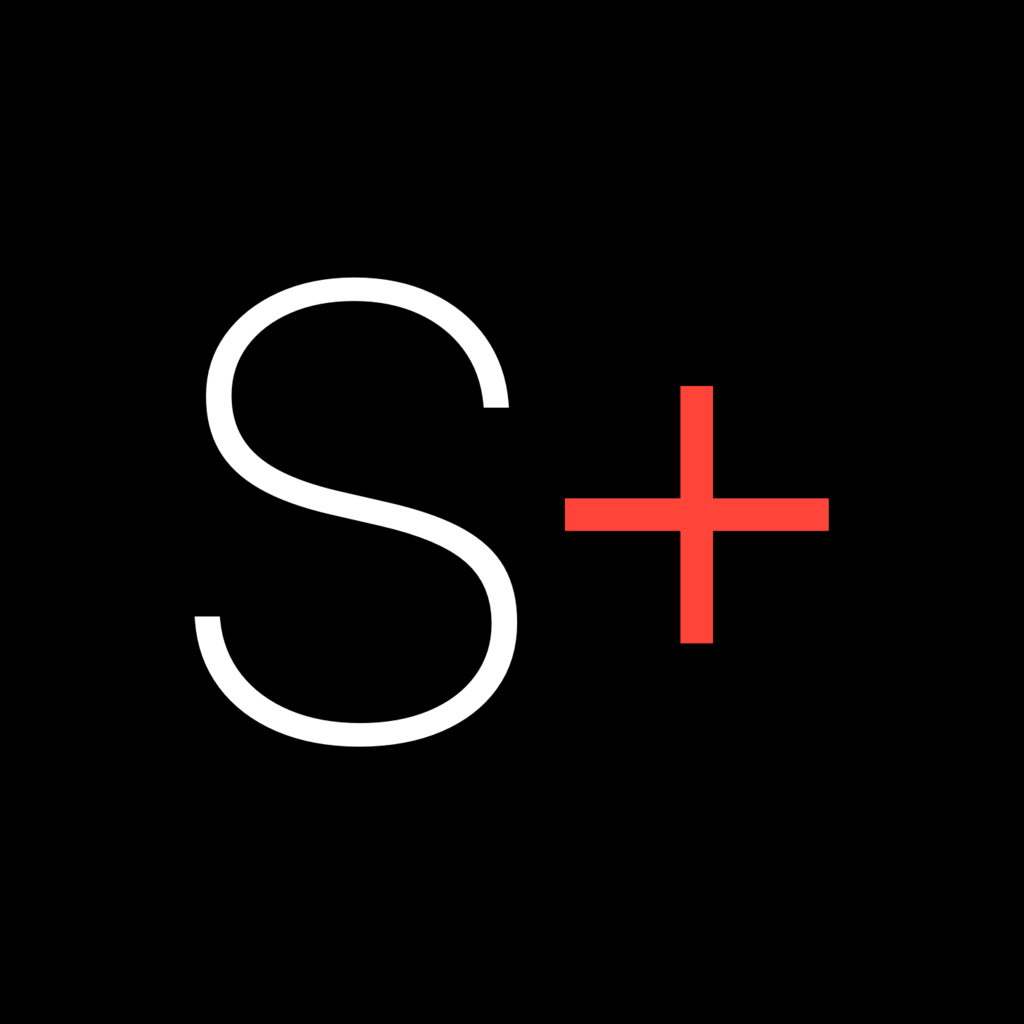
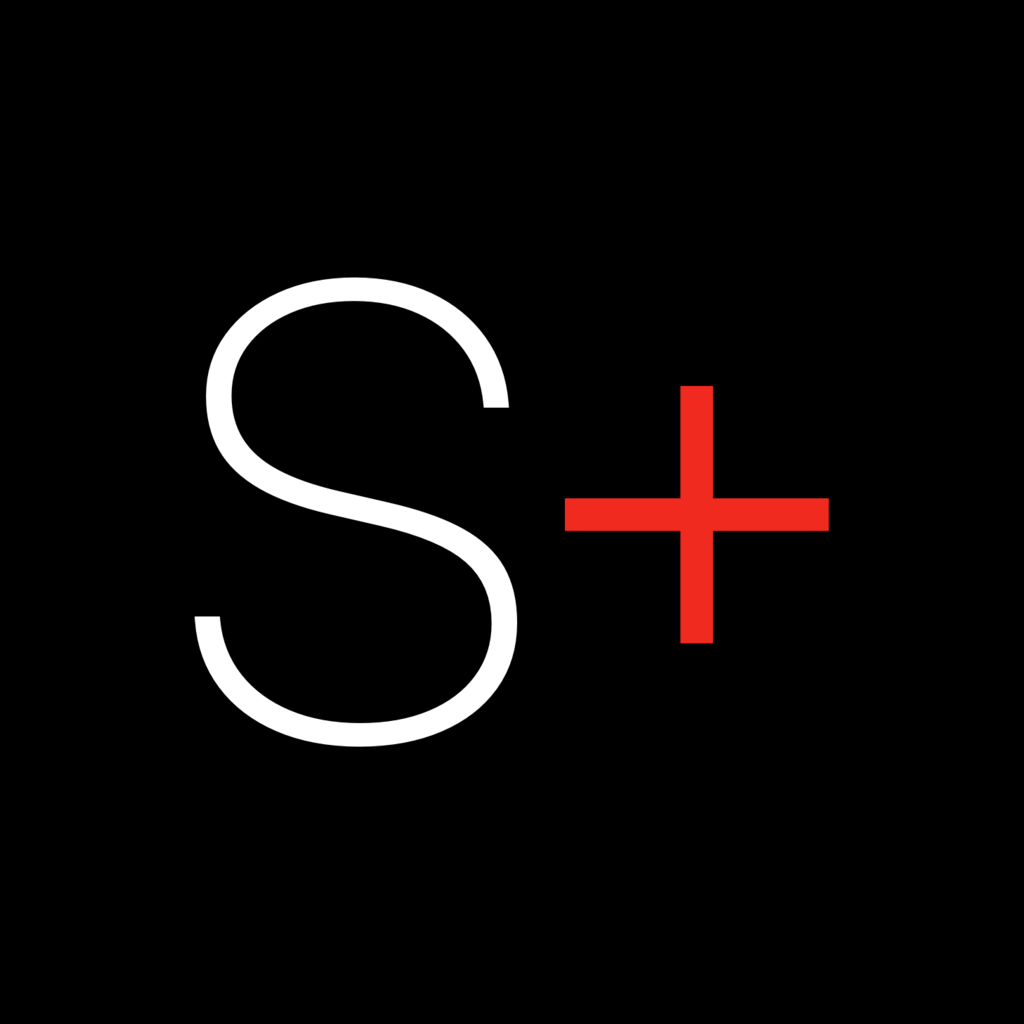
feat: Tune StandBy night red and compact status gauge layout

Changed region(s): [[0.5312, 0.375, 0.8125, 0.625]]

diff --git a/app/ui/ultra/StatusGaugeFace.tsx b/app/ui/ultra/StatusGaugeFace.tsx
@@ -5,7 +5,7 @@ import { ArcGauge, TempComplication, UvComplication } from './ArcGauge';
 import { ActivityRings } from './ActivityRings';
 import { BatteryComplication, NoiseComplication, SunsetComplication } from './Complications';
 import { nightMode } from './nightColors';
-import { panelHeroSize, panelLayout, panelRingSize } from './panelLayout';
+import { panelLayout, panelRingSize, panelStatusHeroSize } from './panelLayout';
 import { dayProgress } from '../../theme/ultra';
 
 type StatusGaugeFaceProps = {
@@ -32,13 +32,17 @@ function MetricRow({ label, value, progress, last = false }: MetricRowProps) {
 
   return (
     <View style={{ marginBottom: last ? 0 : panelLayout.metricGap }}>
-      <View className="mb-1 flex-row items-end justify-between">
+      <View
+        className="flex-row items-end justify-between"
+        style={{ marginBottom: panelLayout.metricHeadGap }}
+      >
         <Text
           style={{
             color: nightMode.secondary,
-            fontSize: 10,
+            fontSize: panelLayout.metricLabelSize,
             fontWeight: '800',
             letterSpacing: 1.2,
+            lineHeight: panelLayout.metricLabelSize + 2,
           }}
         >
           {label}
@@ -46,9 +50,10 @@ function MetricRow({ label, value, progress, last = false }: MetricRowProps) {
         <Text
           style={{
             color: nightMode.primary,
-            fontSize: 13,
+            fontSize: panelLayout.metricValueSize,
             fontWeight: '700',
             fontVariant: ['tabular-nums'],
+            lineHeight: panelLayout.metricValueSize + 1,
           }}
         >
           {value}
@@ -56,7 +61,7 @@ function MetricRow({ label, value, progress, last = false }: MetricRowProps) {
       </View>
       <View
         className="overflow-hidden rounded-full"
-        style={{ height: 8, backgroundColor: nightMode.track }}
+        style={{ height: panelLayout.metricBarHeight, backgroundColor: nightMode.track }}
       >
         <View
           className="h-full rounded-full"
@@ -83,7 +88,7 @@ export const StatusGaugeFace = memo(function StatusGaugeFace({
   const dayPercent = Math.round(progress * 100);
   const focus = focusPercent ?? Math.max(0.2, 1 - progress);
   const ringSize = panelRingSize(size.height);
-  const heroSize = panelHeroSize(size.height);
+  const heroSize = panelStatusHeroSize(size.height);
 
   const onLayout = (event: LayoutChangeEvent) => {
     const { width, height } = event.nativeEvent.layout;

diff --git a/app/design-system.ts b/app/design-system.ts
@@ -1,7 +1,10 @@
 import { standbyConfig } from './config';
+import { buildStandByNightPalette } from './lib/standByNightPalette';
 
 export type PreviewBackShape = 'pill' | 'round';
 export type PreviewBackOutlineShape = 'auto' | 'none' | 'pill' | 'round';
+
+const standByNightPalette = buildStandByNightPalette(standbyConfig.brand.plusColor);
 
 export const standbyDesignSystem = {
   brand: {
@@ -134,16 +137,7 @@ export const standbyDesignSystem = {
     },
   },
   widget: {
-    night: {
-      bg: '#000000',
-      primary: '#FF453A',
-      secondary: '#C23B33',
-      tertiary: '#8A2E28',
-      muted: '#5C221E',
-      track: '#1C0C0A',
-      border: '#2E1210',
-      glow: 'rgba(255, 69, 58, 0.22)',
-    },
+    night: standByNightPalette,
   },
 } as const;
 
@@ -211,21 +205,21 @@ export const ultraColors = {
   secondary: '#8E8E93',
   accent: '#FF9F0A',
   accentGreen: '#30D158',
-  accentRed: '#FF453A',
+  accentRed: standByNightPalette.primary,
   ringTrack: '#2C2C2E',
 } as const;
 
 export const nightColors = {
-  background: '#000000',
-  surface: '#110808',
-  card: '#160A0A',
-  border: '#3A1512',
-  primary: standbyDesignSystem.brand.plusColor,
-  secondary: '#A8423A',
-  muted: '#6B2E28',
-  accent: standbyDesignSystem.brand.plusColor,
+  background: standByNightPalette.bg,
+  surface: standByNightPalette.track,
+  card: standByNightPalette.border,
+  border: standByNightPalette.tertiary,
+  primary: standByNightPalette.primary,
+  secondary: standByNightPalette.secondary,
+  muted: standByNightPalette.muted,
+  accent: standByNightPalette.primary,
   orange: '#FF9F0A',
-  track: '#2A1210',
+  track: standByNightPalette.track,
 } as const;
 
 export function dayProgress(date: Date): number {

diff --git a/app/lib/standByNightPalette.ts b/app/lib/standByNightPalette.ts
@@ -1,0 +1,44 @@
+type Rgb = readonly [number, number, number];
+
+const NIGHT_BLACK: Rgb = [0, 0, 0];
+
+function parseHex(hex: string): Rgb {
+  const normalized = hex.replace('#', '');
+  return [
+    parseInt(normalized.slice(0, 2), 16),
+    parseInt(normalized.slice(2, 4), 16),
+    parseInt(normalized.slice(4, 6), 16),
+  ] as const;
+}
+
+function formatHex([r, g, b]: Rgb): string {
+  return `#${[r, g, b]
+    .map((channel) => Math.round(channel).toString(16).padStart(2, '0'))
+    .join('')
+    .toUpperCase()}`;
+}
+
+function mixRgb(from: Rgb, to: Rgb, amount: number): Rgb {
+  return [
+    from[0] + (to[0] - from[0]) * amount,
+    from[1] + (to[1] - from[1]) * amount,
+    from[2] + (to[2] - from[2]) * amount,
+  ] as const;
+}
+
+export function buildStandByNightPalette(primaryHex: string) {
+  const primary = parseHex(primaryHex);
+
+  return {
+    bg: '#000000',
+    primary: formatHex(primary),
+    secondary: formatHex(mixRgb(primary, NIGHT_BLACK, 0.24)),
+    tertiary: formatHex(mixRgb(primary, NIGHT_BLACK, 0.46)),
+    muted: formatHex(mixRgb(primary, NIGHT_BLACK, 0.64)),
+    track: formatHex(mixRgb(primary, NIGHT_BLACK, 0.89)),
+    border: formatHex(mixRgb(primary, NIGHT_BLACK, 0.82)),
+    glow: `rgba(${Math.round(primary[0])}, ${Math.round(primary[1])}, ${Math.round(primary[2])}, 0.22)`,
+  } as const;
+}
+
+export type StandByNightPalette = ReturnType<typeof buildStandByNightPalette>;

diff --git a/app/ui/ultra/panelLayout.ts b/app/ui/ultra/panelLayout.ts
@@ -2,8 +2,22 @@ export const panelLayout = {
   padX: 22,
   padY: 16,
   sectionGap: 14,
-  metricGap: 8,
+  metricGap: 4,
+  metricHeadGap: 2,
+  metricBarHeight: 6,
+  metricLabelSize: 9,
+  metricValueSize: 12,
 } as const;
+
+export function panelMetricRowHeight() {
+  return panelLayout.metricLabelSize + panelLayout.metricHeadGap + panelLayout.metricBarHeight;
+}
+
+export function panelMetricsBlockHeight(rowCount = 3) {
+  const row = panelMetricRowHeight();
+  const gaps = Math.max(0, rowCount - 1) * panelLayout.metricGap;
+  return row * rowCount + gaps;
+}
 
 export function panelRingSize(height: number) {
   if (height <= 0) return 44;
@@ -13,6 +27,20 @@ export function panelRingSize(height: number) {
 export function panelHeroSize(height: number) {
   if (height <= 0) return 100;
   return Math.min(112, Math.max(84, height * 0.26));
+}
+
+export function panelStatusHeroSize(faceHeight: number) {
+  if (faceHeight <= 0) return 84;
+
+  const ring = panelRingSize(faceHeight);
+  const topRow = ring + 16;
+  const bottomRow = ring + 16;
+  const metrics = panelMetricsBlockHeight();
+  const reserved =
+    panelLayout.padY * 2 + topRow + bottomRow + metrics + panelLayout.sectionGap * 2 + 18;
+  const available = faceHeight - reserved;
+
+  return Math.max(56, Math.min(panelHeroSize(faceHeight), available));
 }
 
 export function panelTimeSize(height: number, width: number) {

diff --git a/configurator/src/lib/panelLayout.ts b/configurator/src/lib/panelLayout.ts
@@ -2,8 +2,22 @@ export const panelLayout = {
   padX: 22,
   padY: 16,
   sectionGap: 14,
-  metricGap: 8,
+  metricGap: 4,
+  metricHeadGap: 2,
+  metricBarHeight: 6,
+  metricLabelSize: 9,
+  metricValueSize: 12,
 } as const;
+
+export function panelMetricRowHeight() {
+  return panelLayout.metricLabelSize + panelLayout.metricHeadGap + panelLayout.metricBarHeight;
+}
+
+export function panelMetricsBlockHeight(rowCount = 3) {
+  const row = panelMetricRowHeight();
+  const gaps = Math.max(0, rowCount - 1) * panelLayout.metricGap;
+  return row * rowCount + gaps;
+}
 
 export function panelRingSize(height: number) {
   if (height <= 0) return 44;
@@ -21,8 +35,7 @@ export function panelStatusHeroSize(faceHeight: number) {
   const ring = panelRingSize(faceHeight);
   const topRow = ring + 16;
   const bottomRow = ring + 16;
-  const metricRow = 25;
-  const metrics = metricRow * 3 + panelLayout.metricGap * 2;
+  const metrics = panelMetricsBlockHeight();
   const reserved =
     panelLayout.padY * 2 + topRow + bottomRow + metrics + panelLayout.sectionGap * 2 + 18;
   const available = faceHeight - reserved;

diff --git a/app/widgets/UltraGaugeWidget.tsx b/app/widgets/UltraGaugeWidget.tsx
@@ -13,6 +13,7 @@ import {
 import type { SFSymbol } from 'sf-symbols-typescript';
 
 import type { UltraGaugeWidgetProps as StandbyGaugeWidgetProps } from '../lib/standbyWidgetTypes';
+import { nightMode } from '../design-system';
 import { createWidget, type WidgetEnvironment } from 'expo-widgets';
 
 export type UltraGaugeWidgetProps = StandbyGaugeWidgetProps & {
@@ -21,11 +22,11 @@ export type UltraGaugeWidgetProps = StandbyGaugeWidgetProps & {
 
 const UltraGaugeWidget = (props: UltraGaugeWidgetProps, environment: WidgetEnvironment) => {
   'widget';
-  const background = '#000000';
-  const primary = '#FF453A';
-  const secondary = '#C23B33';
-  const muted = '#5C221E';
-  const accent = '#FF453A';
+  const background = nightMode.bg;
+  const primary = nightMode.primary;
+  const secondary = nightMode.secondary;
+  const muted = nightMode.muted;
+  const accent = nightMode.primary;
   const isSmall = environment.widgetFamily === 'systemSmall';
   const isLarge = environment.widgetFamily === 'systemLarge';
   const clamped = Math.min(1, Math.max(0, props.value));

diff --git a/app/widgets/UltraClockWidget.tsx b/app/widgets/UltraClockWidget.tsx
@@ -11,6 +11,7 @@ import {
   tint,
 } from '@expo/ui/swift-ui/modifiers';
 import { createWidget, type WidgetEnvironment } from 'expo-widgets';
+import { nightMode } from '../design-system';
 
 type UltraClockWidgetProps = Record<string, never>;
 
@@ -18,11 +19,11 @@ const MONTHS = ['JAN', 'FEB', 'MAR', 'APR', 'MAY', 'JUN', 'JUL', 'AUG', 'SEP', '
 
 const UltraClockWidget = (_props: UltraClockWidgetProps, environment: WidgetEnvironment) => {
   'widget';
-  const background = '#000000';
-  const primary = '#FF453A';
-  const secondary = '#C23B33';
-  const muted = '#5C221E';
-  const accent = '#FF453A';
+  const background = nightMode.bg;
+  const primary = nightMode.primary;
+  const secondary = nightMode.secondary;
+  const muted = nightMode.muted;
+  const accent = nightMode.primary;
   const date = environment.date;
   const progress = (date.getHours() * 3600 + date.getMinutes() * 60 + date.getSeconds()) / 86400;
   const hour12 = date.getHours() % 12 || 12;

diff --git a/configurator/src/preview/ultra/StatusGaugeFace.tsx b/configurator/src/preview/ultra/StatusGaugeFace.tsx
@@ -34,11 +34,17 @@ function MetricRow({
 
   return (
     <div style={{ marginBottom: last ? 0 : panelLayout.metricGap }}>
-      <div className="ultra-face__metric-head">
+      <div
+        className="ultra-face__metric-head"
+        style={{ marginBottom: panelLayout.metricHeadGap }}
+      >
         <span className="ultra-face__metric-label">{label}</span>
         <span className="ultra-face__metric-value">{value}</span>
       </div>
-      <div className="ultra-face__metric-track">
+      <div
+        className="ultra-face__metric-track"
+        style={{ height: panelLayout.metricBarHeight }}
+      >
         <div className="ultra-face__metric-fill" style={{ width: `${percent}%` }} />
       </div>
     </div>

diff --git a/configurator/src/lib/standByWidgetShape.ts b/configurator/src/lib/standByWidgetShape.ts
@@ -1,4 +1,5 @@
 import { widgetConfigure } from './designTokens';
+import { buildStandByNightPalette } from '../../../app/lib/standByNightPalette';
 
 export const standByWidgetCornerRadiusRatio = widgetConfigure.templateCornerRadiusRatio;
 
@@ -22,13 +23,4 @@ export function squircleNormalizedPath(exponent = 4.25): string {
   return `${parts.join(' ')} Z`;
 }
 
-export const nightMode = {
-  bg: '#000000',
-  primary: '#FF453A',
-  secondary: '#C23B33',
-  tertiary: '#8A2E28',
-  muted: '#5C221E',
-  track: '#1C0C0A',
-  border: '#2E1210',
-  glow: 'rgba(255, 69, 58, 0.22)',
-} as const;
+export const nightMode = buildStandByNightPalette('#F02A1F');

diff --git a/configurator/src/preview/ultra/UltraFace.css b/configurator/src/preview/ultra/UltraFace.css
@@ -69,25 +69,25 @@
   display: flex;
   align-items: flex-end;
   justify-content: space-between;
-  margin-bottom: 4px;
 }
 
 .ultra-face__metric-label {
   color: #c23b33;
-  font-size: 10px;
+  font-size: 9px;
   font-weight: 800;
   letter-spacing: 0.12em;
+  line-height: 11px;
 }
 
 .ultra-face__metric-value {
   color: #ff453a;
-  font-size: 13px;
+  font-size: 12px;
   font-weight: 700;
   font-variant-numeric: tabular-nums;
+  line-height: 13px;
 }
 
 .ultra-face__metric-track {
-  height: 8px;
   overflow: hidden;
   border-radius: 999px;
   background: #1c0c0a;

diff --git a/app/config.ts b/app/config.ts
@@ -1,3 +1,5 @@
+export const standByNightRed = '#F02A1F';
+
 export const standbyConfig = {
   name: 'StandBy+',
   slug: 'standby',
@@ -48,7 +50,7 @@ export const standbyConfig = {
   brand: {
     backgroundColor: '#000000',
     textColor: '#FFFFFF',
-    plusColor: '#FF453A',
+    plusColor: standByNightRed,
     icon: './assets/icon.png',
     adaptiveIcon: './assets/adaptive-icon.png',
     splash: './assets/splash.png',

diff --git a/app/scripts/render-brand-mark.swift b/app/scripts/render-brand-mark.swift
@@ -50,7 +50,7 @@ func parseOptions() -> Options {
   var letterWeight = NSFont.Weight.thin
   var plusWeight = NSFont.Weight.light
   var textColor = NSColor.white
-  var plusColor = NSColor(red: 1, green: 0.271, blue: 0.227, alpha: 1)
+  var plusColor = NSColor(red: 240.0 / 255.0, green: 42.0 / 255.0, blue: 31.0 / 255.0, alpha: 1)
   var outputPath = ""
 
   var index = 1
